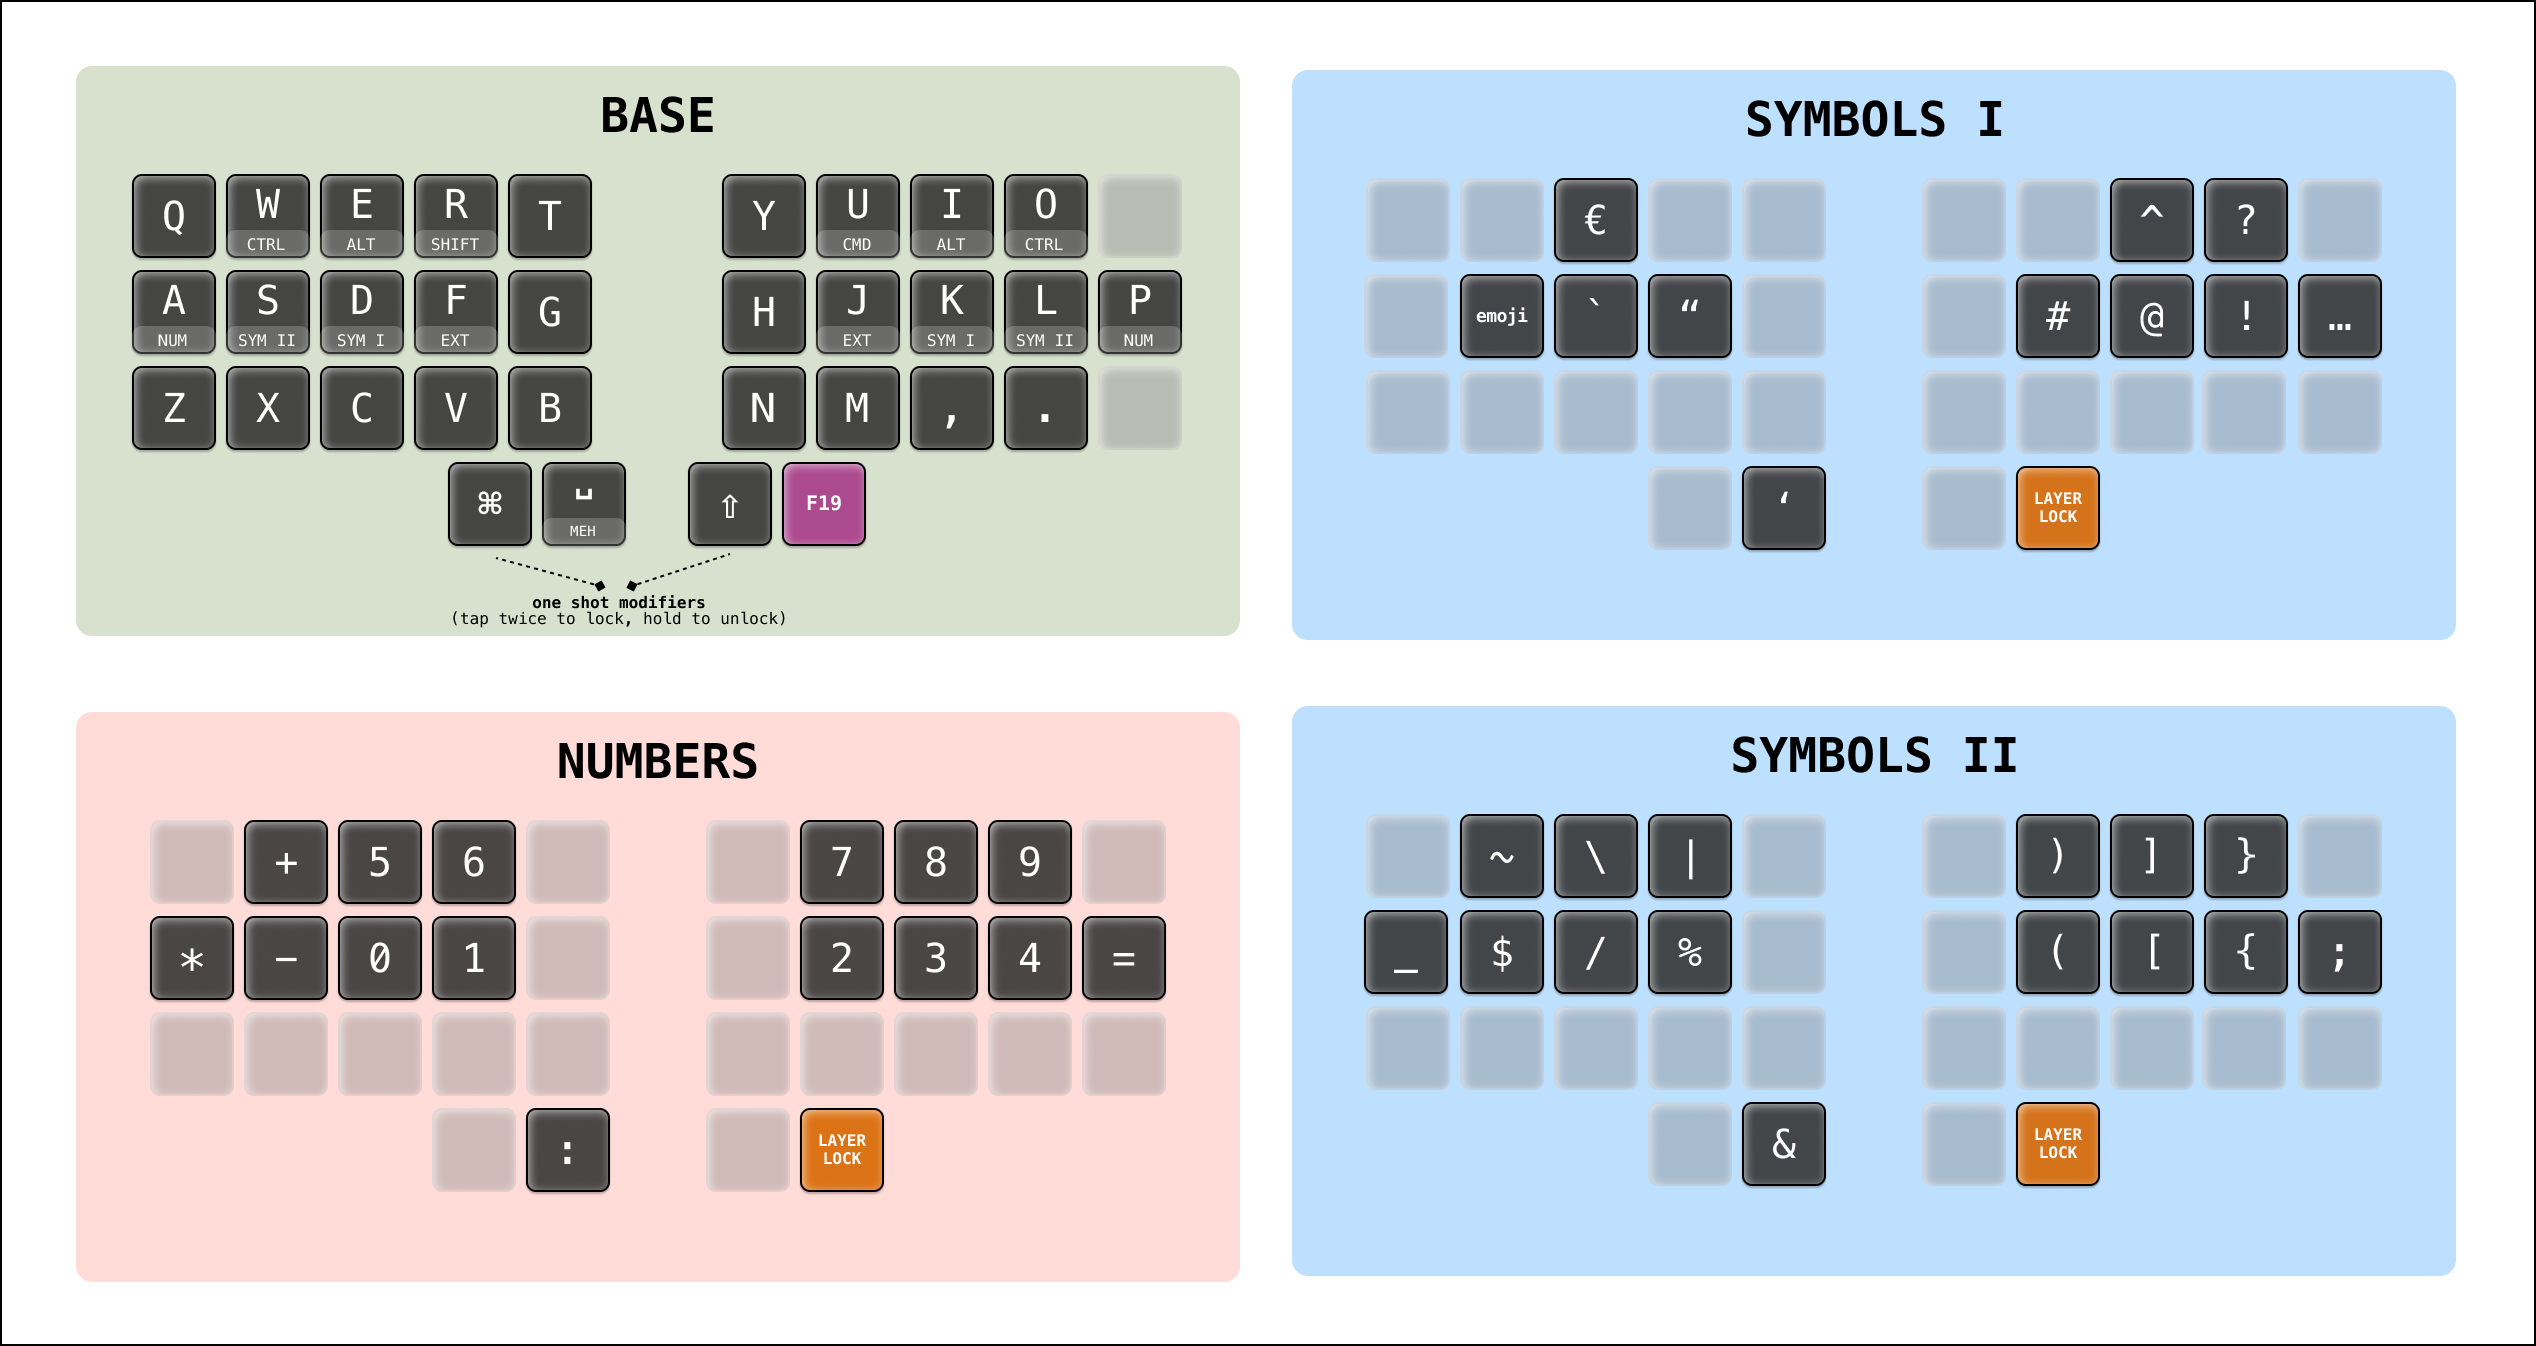
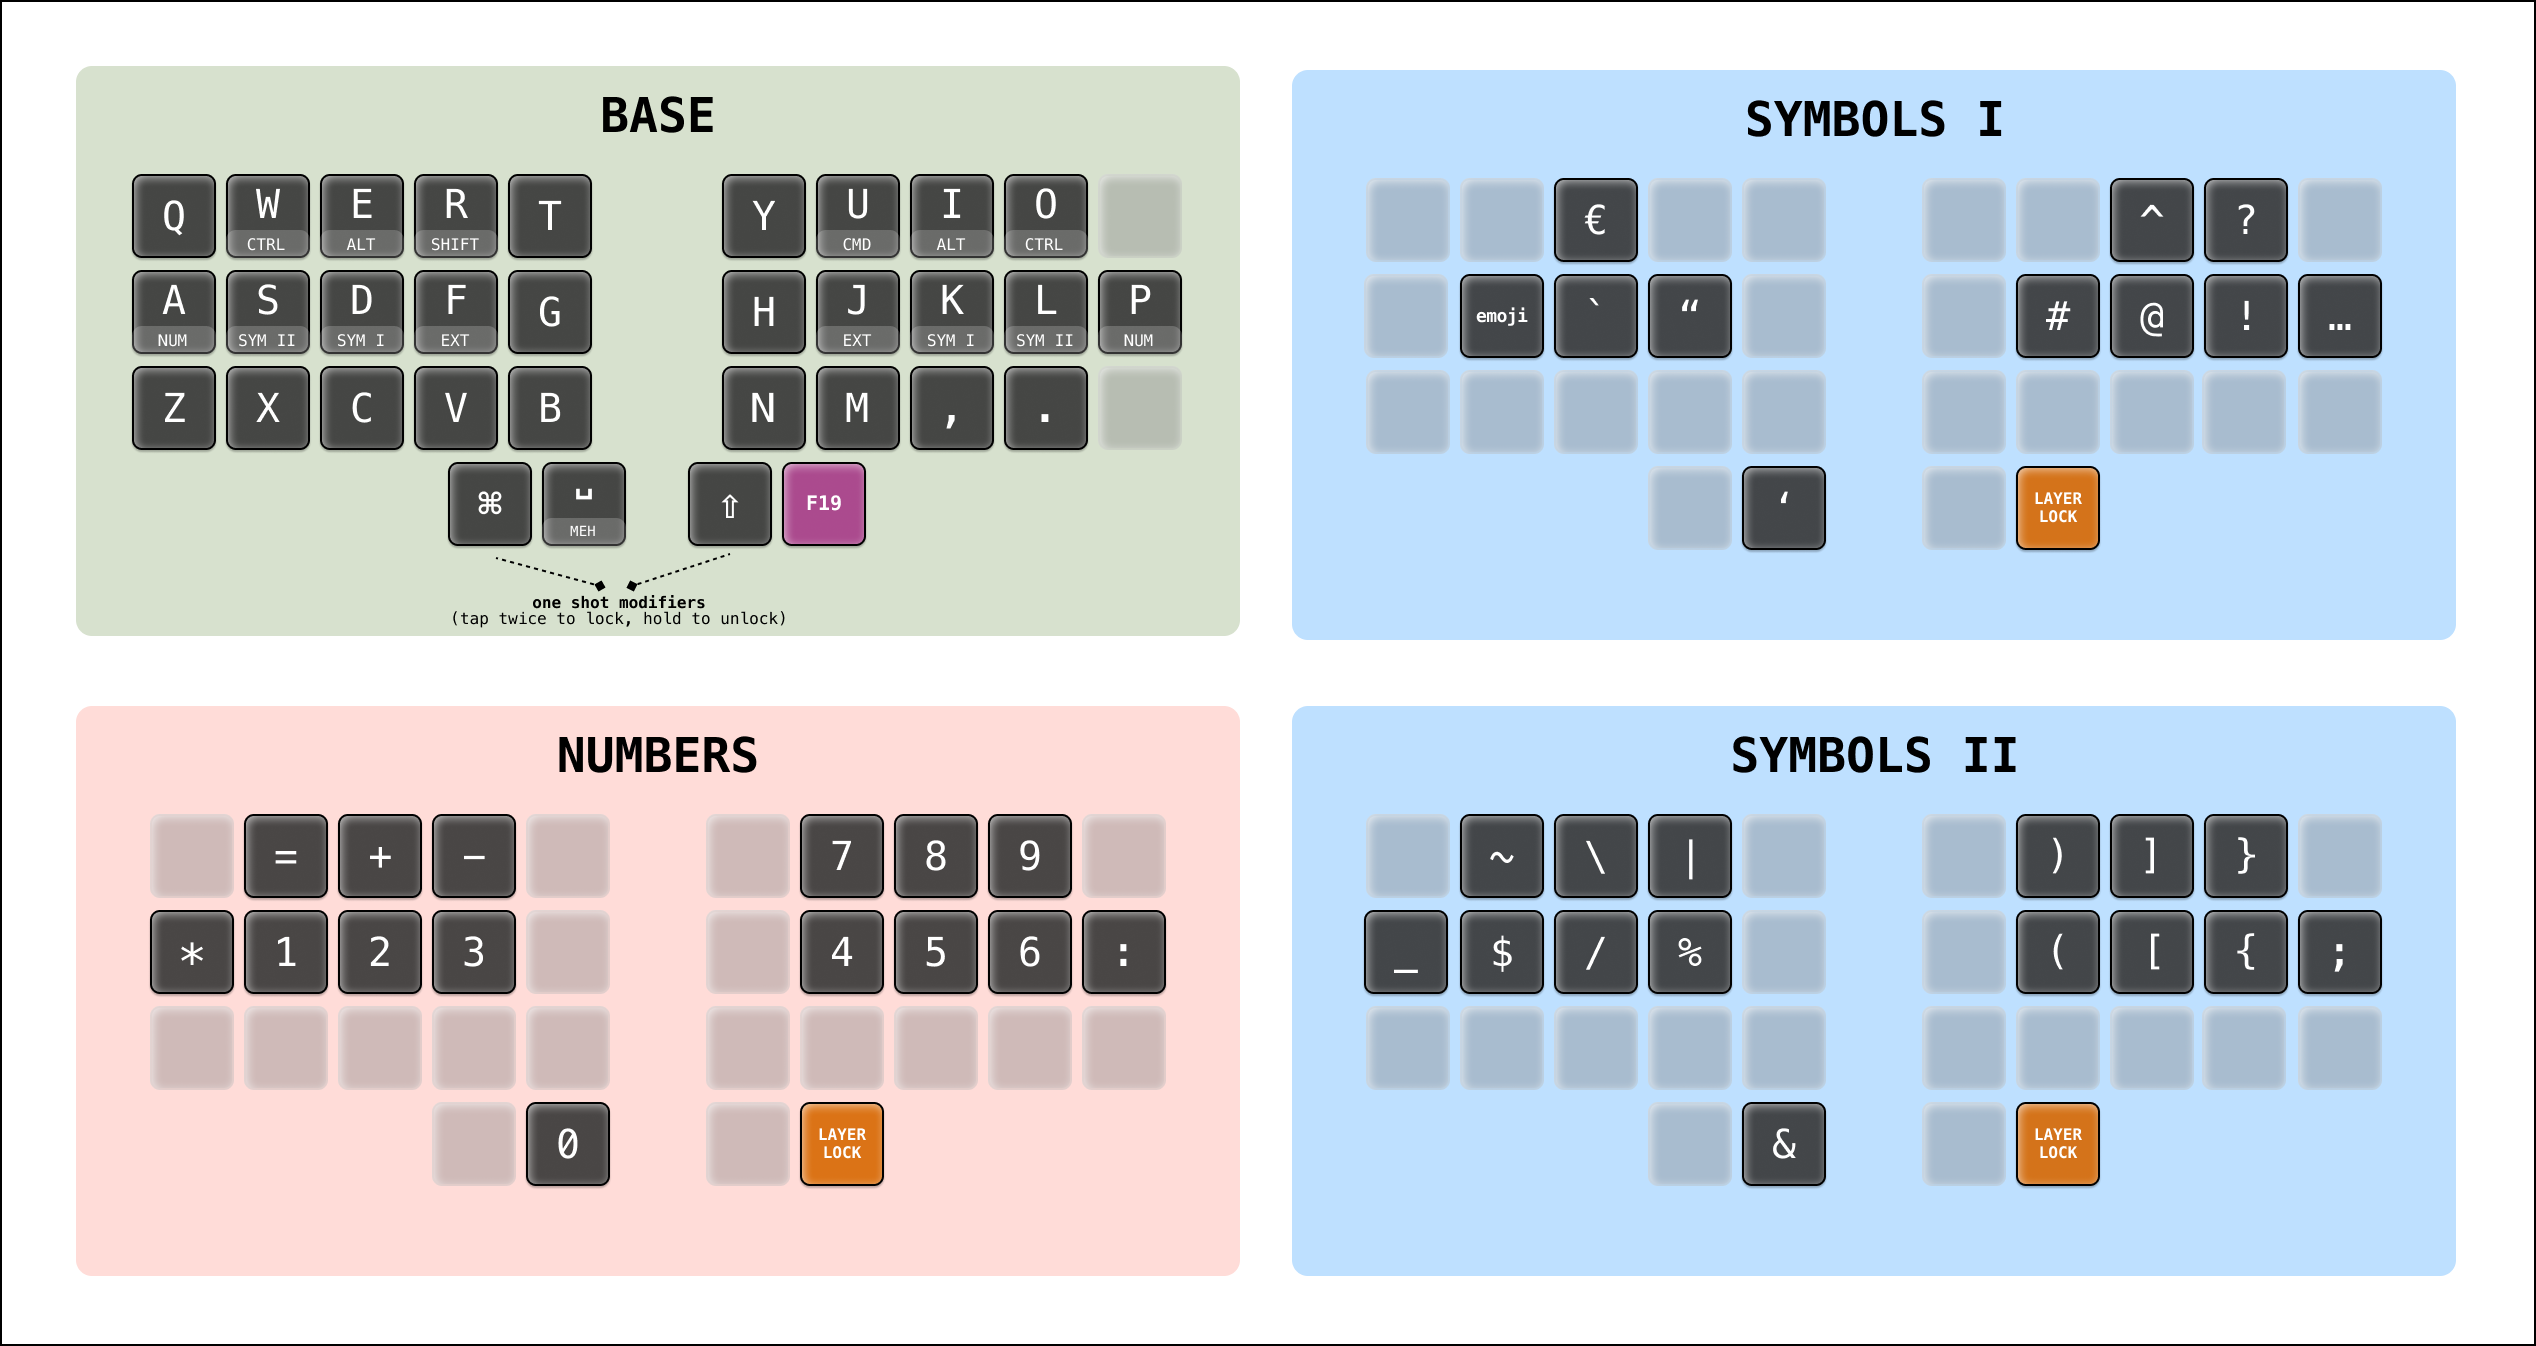
New num layer and docker improvements

diff --git a/user/reinier.c b/user/reinier.c
@@ -74,11 +74,11 @@ combo_t key_combos[] = {
 
 // ##### Layer 3 NUM
 
-#define K18_NUM_L1 KC_PLUS, KC_5, KC_6
+#define K18_NUM_L1 KC_PEQL, KC_PLUS, KC_MINUS
 #define K18_NUM_R1 KC_7, KC_8, KC_9
-#define K18_NUM_L2 KC_ASTR, KC_MINUS, KC_0, KC_1
-#define K18_NUM_R2 KC_2, KC_3, KC_4, KC_PEQL
-#define K18_NUM_LT KC_TRNS, KC_COLN
+#define K18_NUM_L2 KC_ASTR, KC_1, KC_2, KC_3
+#define K18_NUM_R2 KC_4, KC_5, KC_6, KC_COLN
+#define K18_NUM_LT KC_TRNS, KC_0
 #define K18_NUM_RT K18_NOBASE_RT
 
 // ##### Layer 4 EXTENDED

diff --git a/README.md b/README.md
@@ -10,16 +10,16 @@ Inspiration for this setup comes from https://medium.com/@patrick.elmquist/separ
 - `make totem` to build one keymap (in this case the totem).
 - `make clean` to clean up repo before committing
 
-## Docker workflow (wip)
+## QMK inside Docker workflow
 
 - `make setup` to install the submodules
 - `./dodocker.sh` to run docker build process
 
-Currently only builds Q9 keymap.
+Comment out the keymaps you don't want to build in dodocker.sh. Also tested with OrbStack and works like a charm.
 
 ### Todo
 
-- Add docker flow for Totem, Moonlander, Boardsource Technik and Boardsource Microdox
+- Add docker flow for Moonlander, Technik and Microdox
 
 ## Keyboards
 
